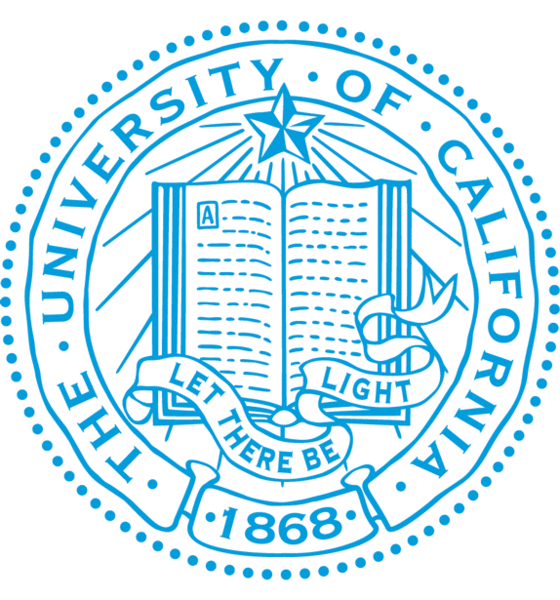
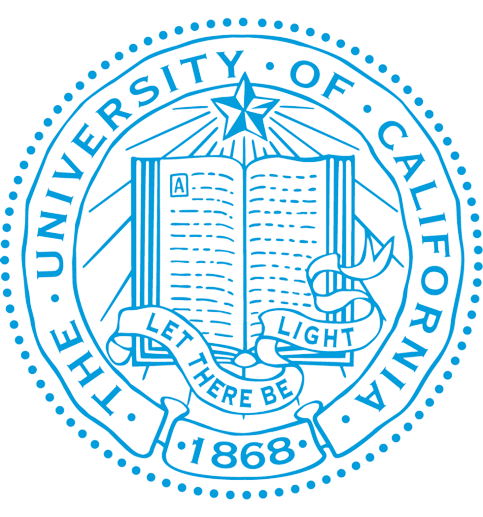
created more pages

diff --git a/pages/sites/database.js b/pages/sites/database.js
@@ -1,0 +1,56 @@
+import Head from 'next/head'
+import styles from '../../styles/Database.module.css'
+import Link from 'next/link'
+
+import Navbar from '../../components/shared/navbar/navbar';
+import Header from '../../components/shared/header/header';
+import React from 'react';
+
+export async function getServerSideProps() {
+    const res = await fetch(`http://localhost:3000/api/site/region`)
+    const data = await res.json()
+    return { props: { data } }
+}
+
+export default function Database({ data }) {
+    return (
+        <React.Fragment>
+            <div className={styles.container}>
+                <Head>
+                    <title>UC-CTCT: Site Management Systems</title>
+                    <meta name="description" content="University of California - Clinic Coordination Tools" />
+                    <link rel="icon" href="/favicon.ico" />
+                </Head>
+                <main className={styles.main}>
+                    <Navbar icons={[false, true, false, false, false]} /> 
+                    <div className={styles.content}>
+                        <Header header="Management Overview - All Regions" date="Today: Febuary 2, 2022" imgSrc="" />
+                        <div className={styles.data}>
+                            <div className={styles.row}>
+                                <p>Region Name</p>
+                                <p>Total number of sites</p>
+                            </div>
+                            {data.map((x) => {
+                            return (
+                                <div style={{display: 'flex', flexDirection: 'row', justifyContent: 'space-between',
+                                alignItems: 'center', padding: '0.5rem', backgroundColor: '#fff', height: 'auto', width: '90%', margin: '0.4rem 0', borderRadius: '1rem', boxShadow: '0px 2px 2px rgba(0, 0, 0, 0.1);',
+                                fontFamily: 'Lato', fontWeight: '600', fontSize: '1.2rem'}}>
+                                    <p style={{marginLeft: '2rem'}}>{x['name']}</p>
+                                    <p style={{marginRight: '5rem'}}>{x['num_sites']}</p>
+                                </div>)
+                            })}
+                            <div style={{display: 'flex', flexDirection: 'row', justifyContent: 'space-between', cursor: 'pointer',
+                                alignItems: 'center', padding: '0.5rem', backgroundColor: '#FFF', opacity: 0.75, height: 'auto', width: '90%', margin: '0.4rem 0', borderRadius: '1rem', boxShadow: '0px 2px 2px rgba(0, 0, 0, 0.1);',
+                                fontFamily: 'Lato', fontWeight: '600', border: '1px solid #CACACA', fontSize: '1.2rem'}}>
+                                    <p style={{marginLeft: '2.5rem', color: "#545454"}}>+ Add New Region</p>
+                            </div>
+                        </div>
+                    </div>
+                </main>
+            </div>
+            <style>
+                @import url('https://fonts.googleapis.com/css2?family=Lato:ital,wght@0,300;0,400;0,700;1,300;1,400;1,700&display=swap');
+            </style>
+        </React.Fragment>
+    )
+}

diff --git a/pages/sites/index.js b/pages/sites/index.js
@@ -1,8 +1,10 @@
 import Head from 'next/head'
 import styles from '../../styles/Sites.module.css'
+import Link from 'next/link'
 
 import Navbar from '../../components/shared/navbar/navbar';
 import Header from '../../components/shared/header/header';
+import { FaChartPie, FaDatabase } from 'react-icons/fa';
 
 export default function Sites() {
     return (
@@ -17,12 +19,20 @@ export default function Sites() {
                 <div className={styles.content}>
                     <Header header="Site Management Tools" date="Today: Febuary 2, 2022" imgSrc="" />
                     <div className={styles.menu}>
-                        <div className={styles.chart}>
-                            
-                        </div>
-                        <div className={styles.chart}>
-
-                        </div>
+                        <Link href="/sites/database">
+                            <div className={styles.menuOption}>
+                                <FaDatabase size={100} color='#079CDB'/>
+                                <h1>Manage Clinical Database</h1>
+                                <p>Add more clinics, sites, or regions and edit existing information</p>
+                            </div>
+                        </Link>
+                        <Link href="/sites/visual">
+                            <div className={styles.menuOption}>
+                                <FaChartPie size={100} color='#079CDB' />
+                                <h1>Manage Data Visualization</h1>
+                                <p>Quick overview of all the clinics and chart analysis</p>
+                            </div>
+                        </Link>
                     </div>
                 </div>
             </main>

diff --git a/styles/Database.module.css b/styles/Database.module.css
@@ -27,31 +27,27 @@
     align-items: center;
 }
 
-.menuOption {
-    height: 75%;
-    width: 38rem;
-    background-color: #F5F5F5;
+.row {
+    display: flex;
+    flex-direction: row;
+    justify-content: space-between;
+    align-items: center;
+    margin: 4rem 2rem 1rem 2rem;
+    height: 10%;
+    width: 85%;
+    font-family: 'Lato', sans-serif;
+    font-weight: bold;
+    font-size: 1.5rem;
+}
+
+.data {
+    background-color: #F5F6FA;
+    margin: 5rem 5rem 0 7rem;
     border-radius: 2rem;
-    margin: 1rem;
     display: flex;
     flex-direction: column;
-    justify-content: center;
+    justify-content: flex-start;
     align-items: center;
-    cursor: pointer;
-}
-
-.menuOption:hover {
-    height: 80%;
-    width: 40rem;
-    transition: linear 0.3s;
-}
-
-.menuOption h1 {
-    margin: 1rem;
-    color: #079CDB;
-}
-
-.menuOption p {
-    margin: 0;
-    color: #AAB2C8;
+    height: 60%;
+    width: auto;
 }

diff --git a/pages/api/site/region.js b/pages/api/site/region.js
@@ -2,24 +2,23 @@ export default function handler(req, res) {
     const query = req.query
     // Simulate waiting time
     setTimeout(() => {1000})
-
     // /api/site/region
-    if (query.length == 0) {
+    if (Object.keys(query).length === 0) {
         res.status(200).json(
-            { 
-                region1: {
+            [
+                {
                     name: "Northern & Central Region",
                     num_sites: 1
                 },
-                region2: {
+                {
                     name: "Coastal Region",
                     num_sites: 1
                 },
-                region3: {
+                {
                     name: "Southern Region",
                     num_sites: 1
                 },
-            }
+            ]
         )
         return;
     }

diff --git a/components/shared/navbar/navbar.js b/components/shared/navbar/navbar.js
@@ -15,7 +15,7 @@ export default function Navbar(props) {
             <div className={styles.navbar}>
                 {/* Logo Side */}
                 <div className={styles.logo}>
-                    <img src="/asset/images/uc-seal-blue-clear.png" alt="UC Seal" style={{height: 'auto', width: '100%'}}/>
+                    <img src="/asset/images/uc-seal-blue.png" alt="UC Seal" style={{height: 'auto', width: '80%'}}/>
                 </div>
                 <Link href="/main">
                     <div className={styles.dashboard}>

diff --git a/components/shared/navbar/Navbar.module.css b/components/shared/navbar/Navbar.module.css
@@ -17,6 +17,7 @@
     height: auto;
     background-color: transparent;
     margin: 2rem 0 5rem 0;
+    text-align: center;
 }
 
 .dashboard {
